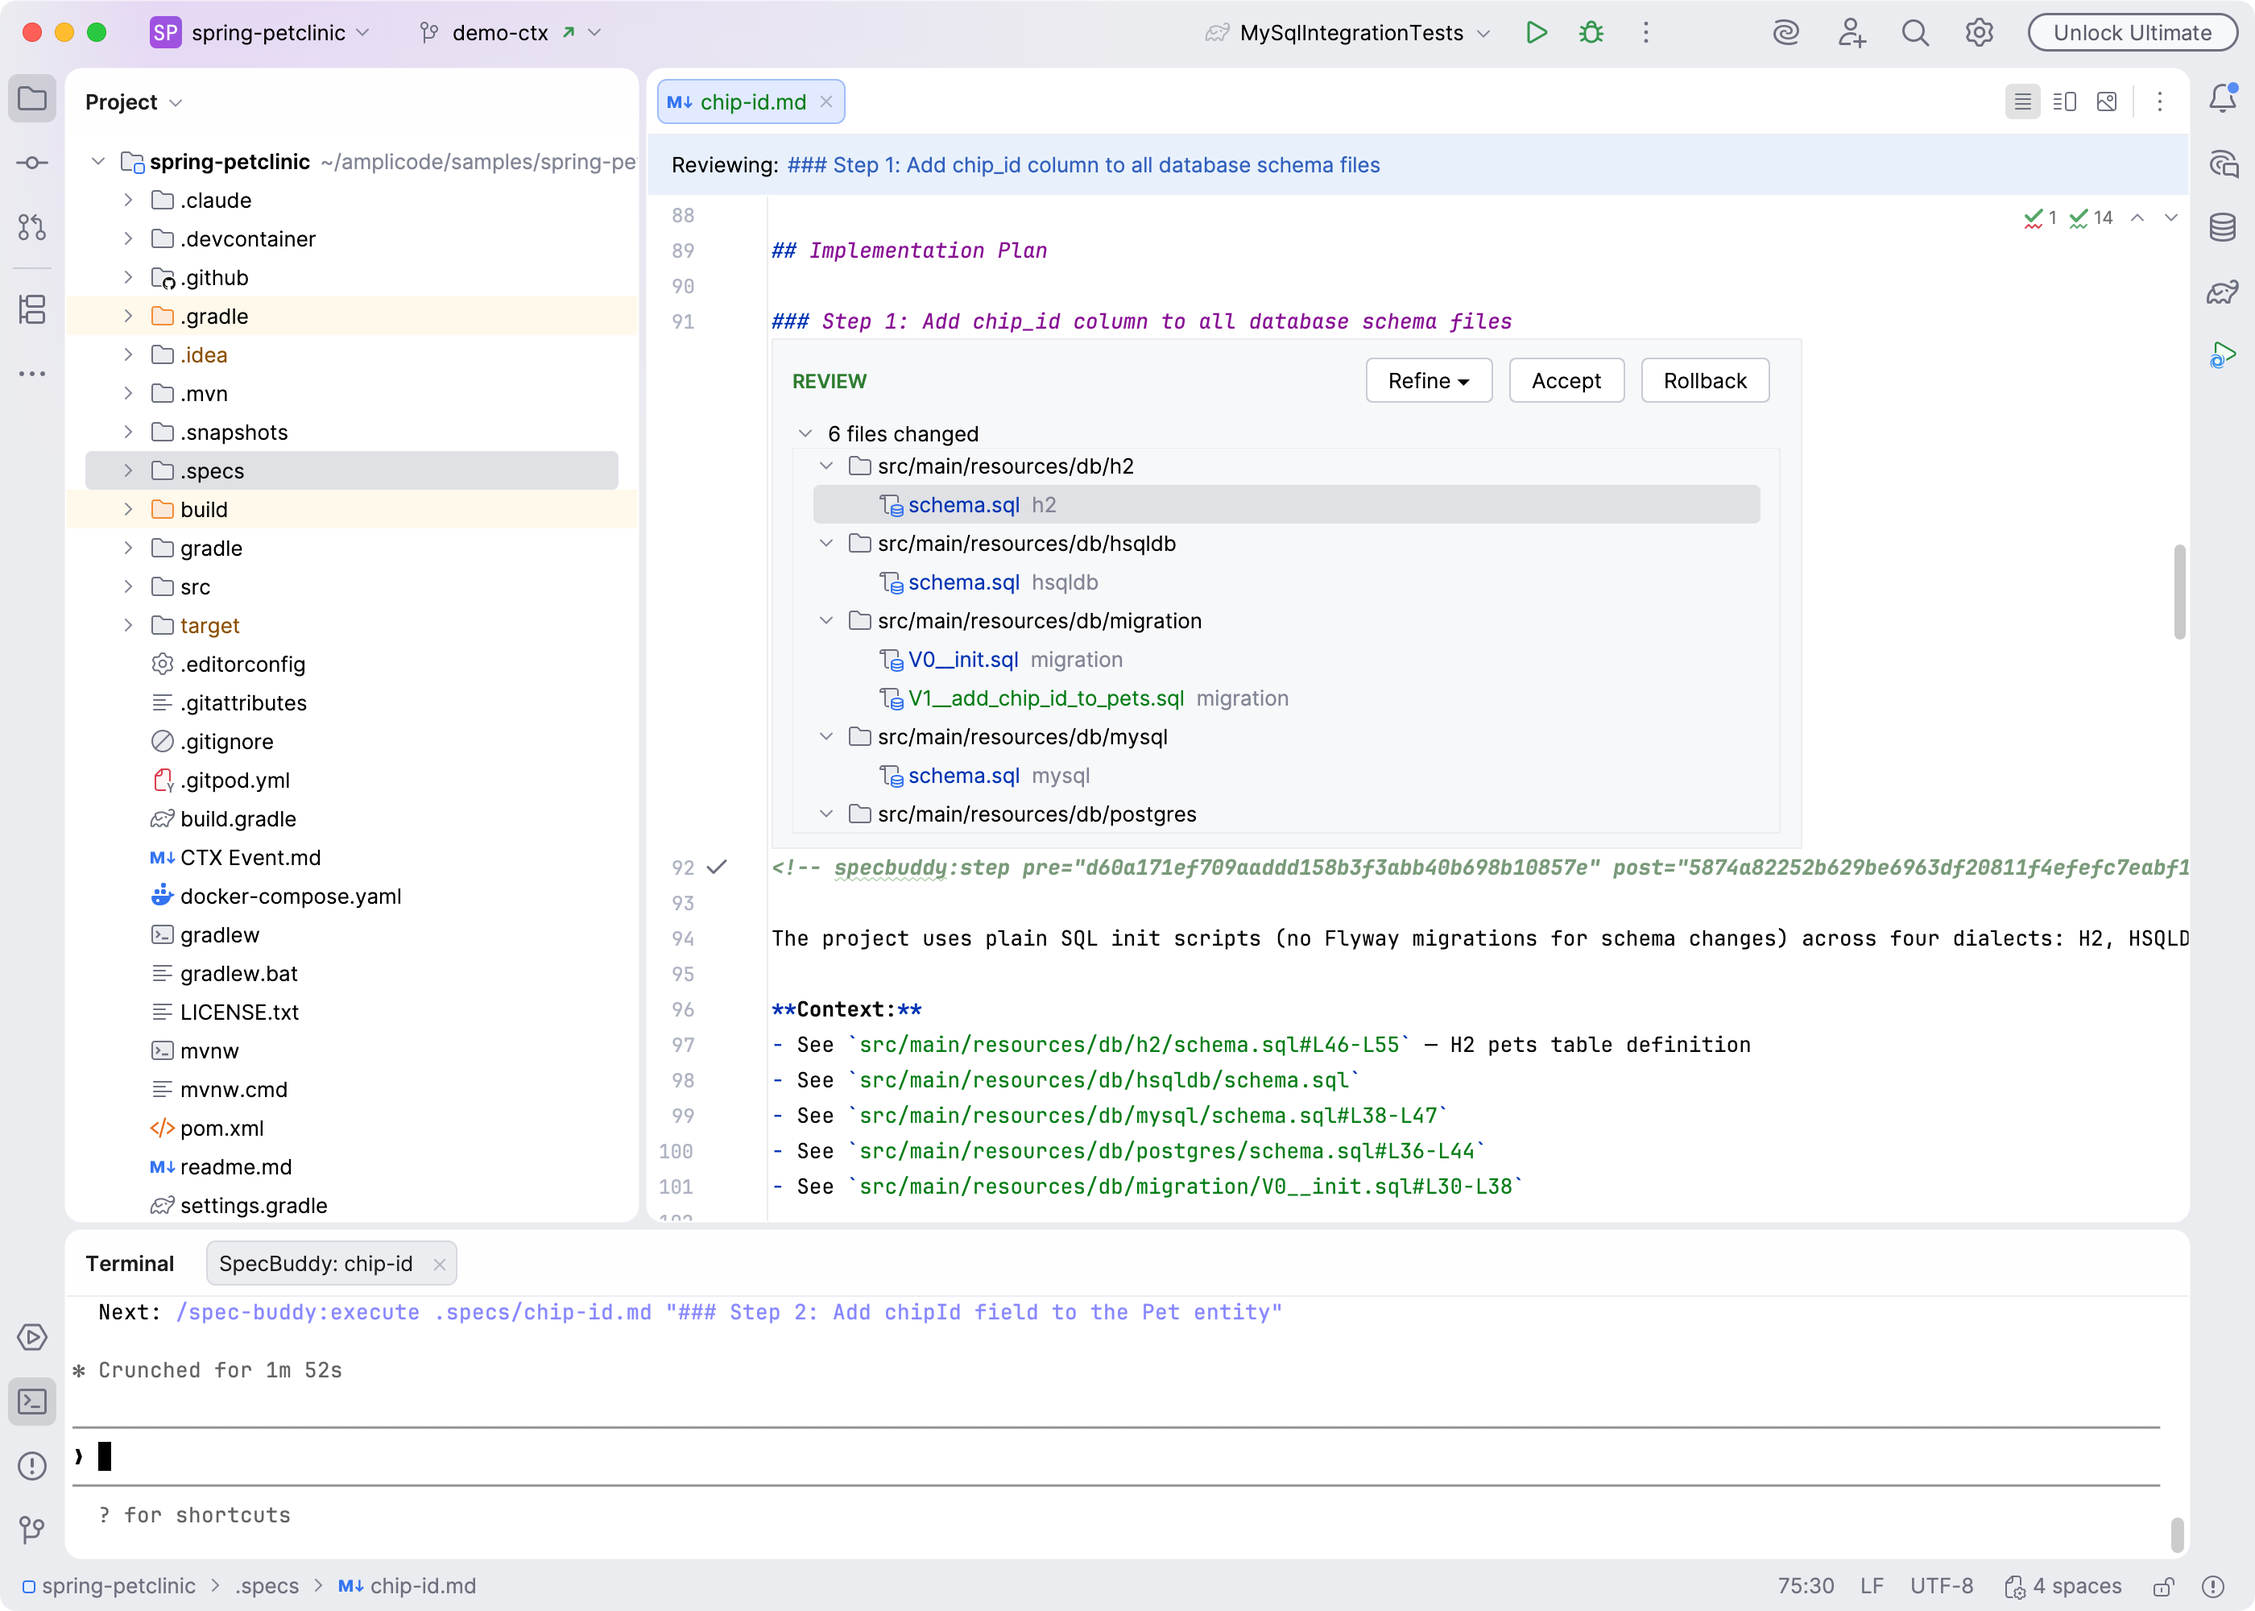
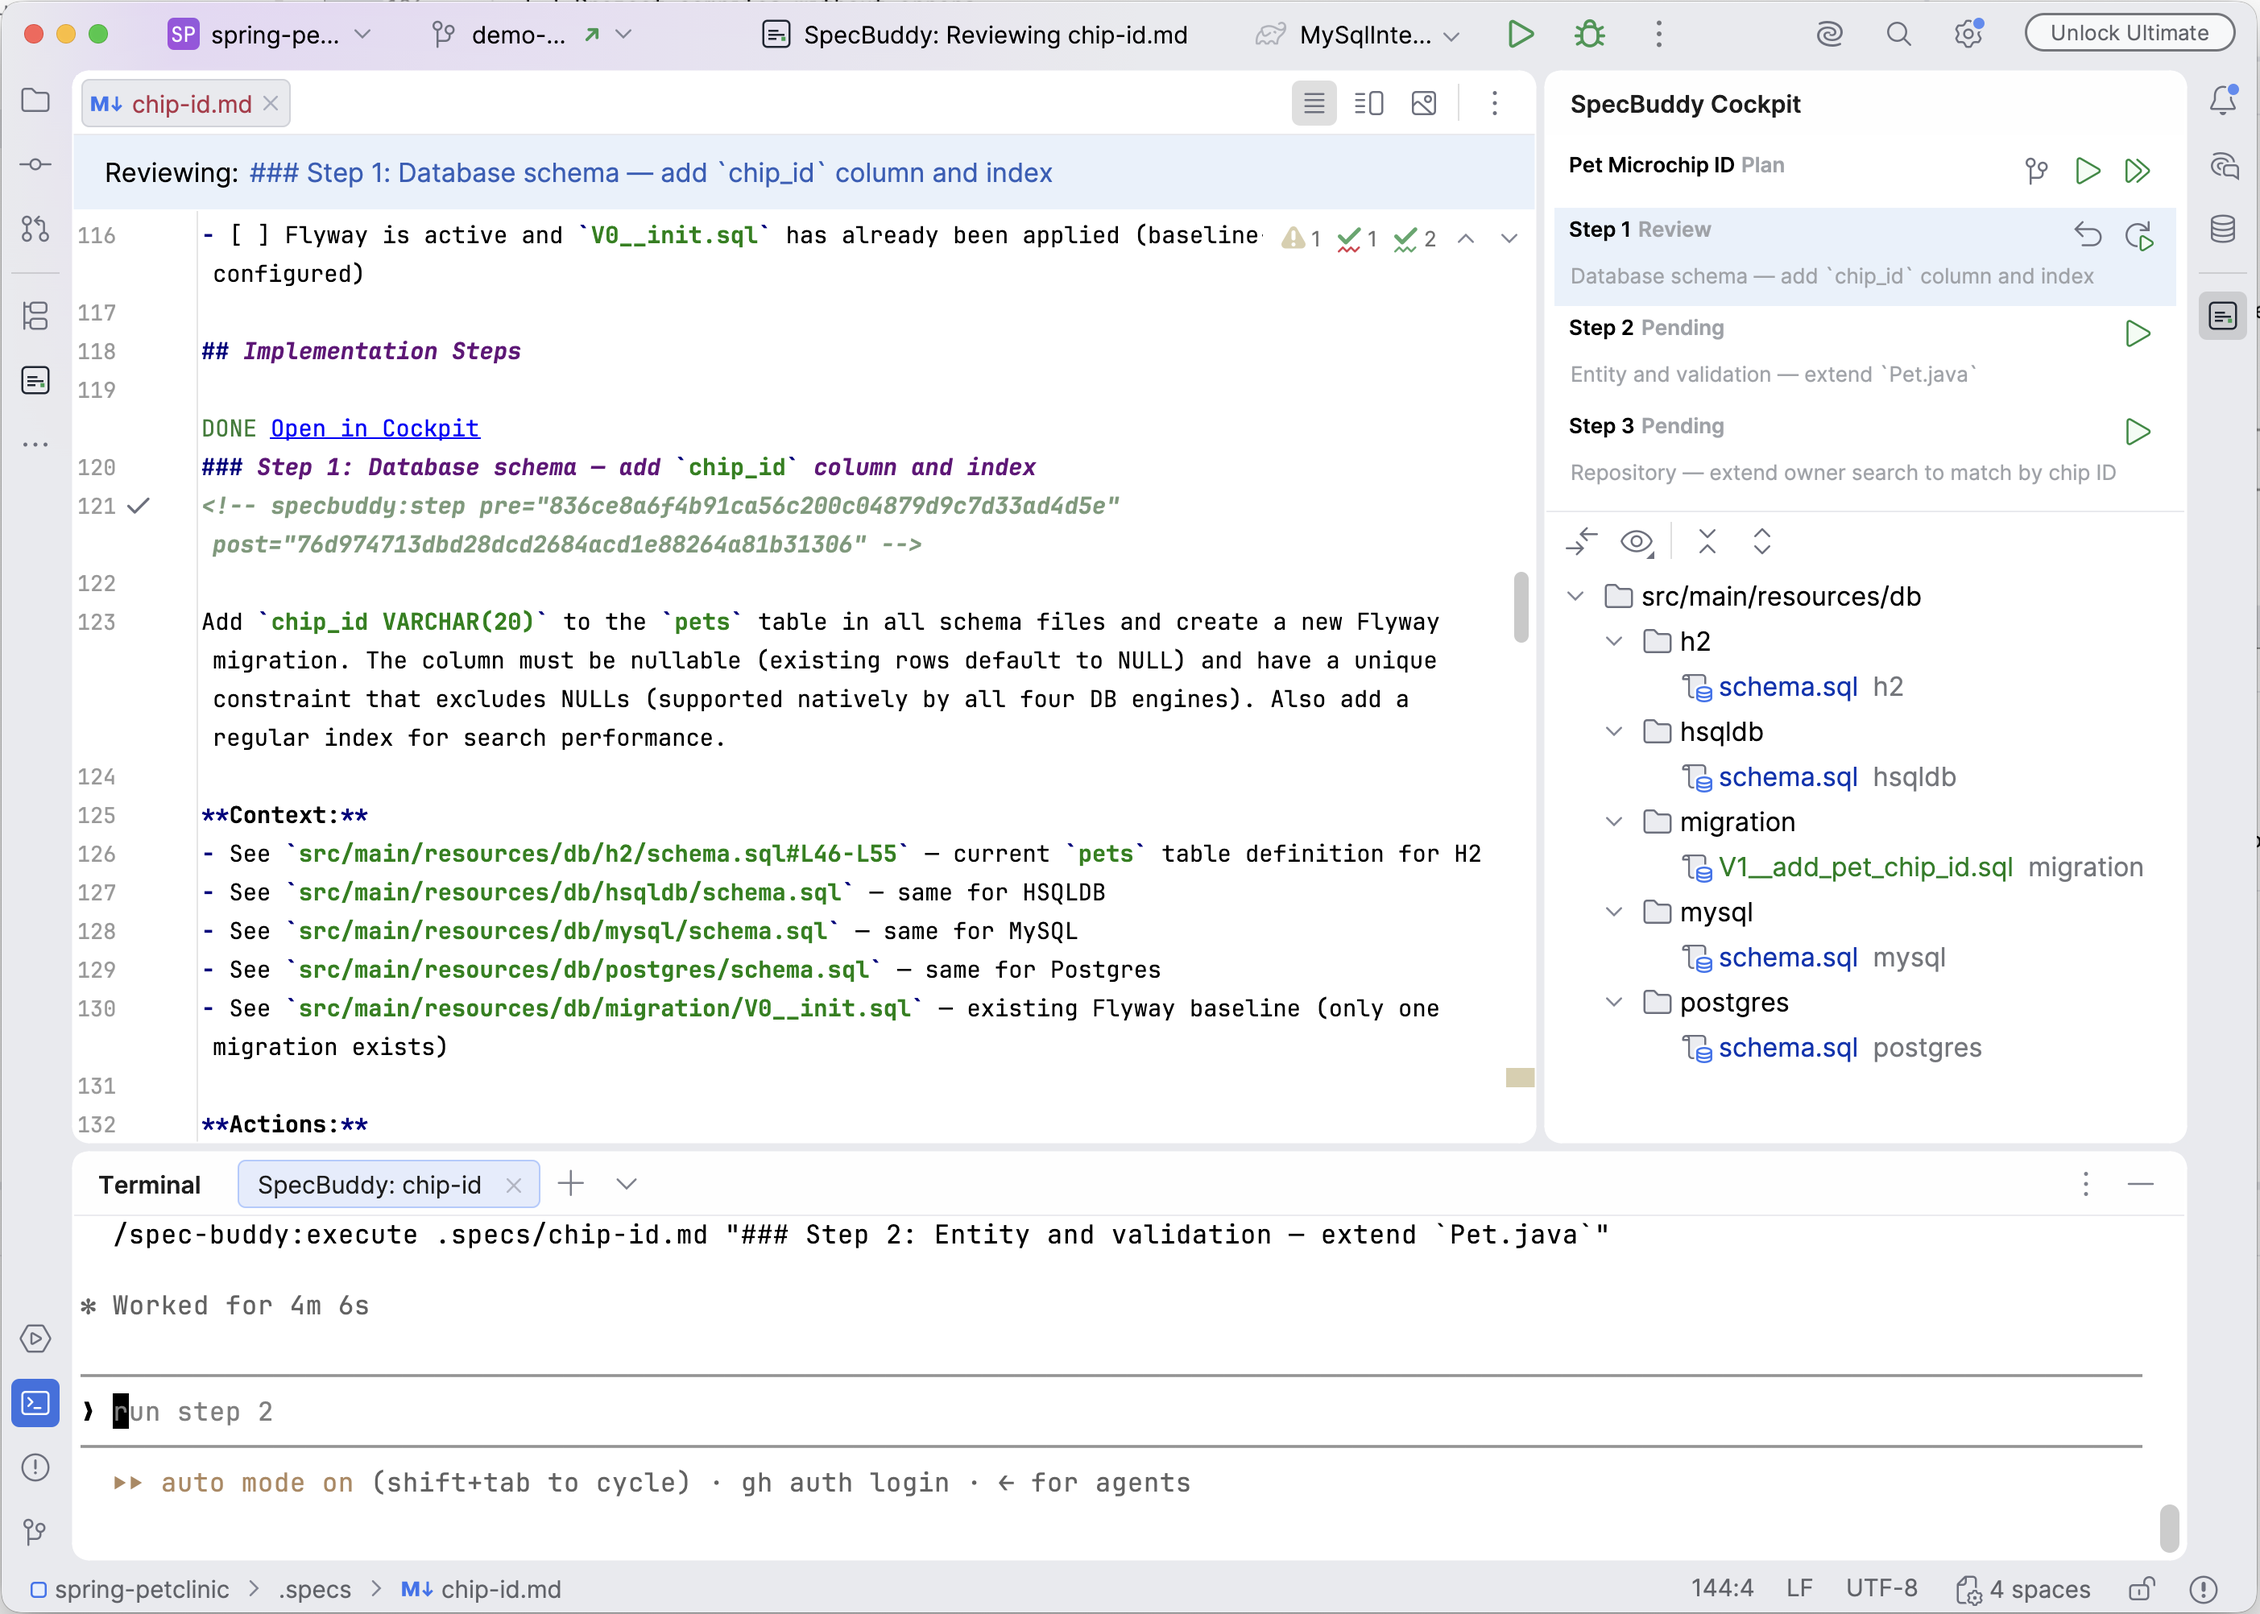
updates

diff --git a/USER_GUIDE.md b/USER_GUIDE.md
@@ -22,7 +22,9 @@ We want to add a microchip ID field to pets: stored in the database, visible in 
 ## Step 1 — Create a spec file
 
 Open your project in IntelliJ. Right-click in the **Project** panel where you want your spec to live (e.g. `.specs/`), choose **New → New Spec / Task**, and name it `add-chip-id`.
-![new-spec.png](assets/create-spec.png)
+
+<img alt="create-spec.png" src="assets/create-spec.png" width=1024>
+
 This creates `add-chip-id.md` with a minimal template. Fill in a short draft describing what you want:
 
 ```markdown
@@ -32,52 +34,49 @@ Should appear in the add/edit pet form. Should be searchable from the owners lis
 
 Save the file.
 
-![spec-draft.png](assets/spec-draft.png)
+<img alt="spec-draft.png" src="assets/spec-draft.png" width="1024"/>
 
 ---
 
 ## Step 2 — Expand the draft into a full specification
 
-Click on **Explode** link at the top of the editor or  the gutter icon next to `<!-- specbuddy:explode-specification  -->` header.
+Click on **Explode** button in the **SpecBuddy Cockpit** toolwindow or the gutter icon next to `<!-- specbuddy:explode-specification  -->` header.
 
 Claude Code opens in a terminal panel and reads your draft. It explores your project produces a complete specification covering functional requirements, data model changes, UI changes, and edge cases.
 
 When Claude finishes, you would see expanded specification text.
 
-![expanded_spec.png](assets/expanded-spec.png)
+<img alt="expanded_spec.png" src="assets/expanded-spec.png" width="1024"/>
 
-The panel shows the spec file. Open it to read what Claude wrote. If something is wrong or missing:
+If something is wrong or missing:
 
 - **Add an inline comment** — select the relevant text in the editor, click comment gutter icon appeared. Type your note and.
 - Click **Refine** in the header. Claude re-reads the spec and your comments and rewrites accordingly.
 
-![img.png](assets/inlay-comment.png)
+<img alt="img.png" src="assets/inlay-comment.png" width="1024"/>
+
+
+You can add comments anywhere in your project anytime.
 
 ---
 
 ## Step 3 — Generate an implementation plan
 
-The spec file now contains the full feature description. Click the **Generate Plan** in the header.
+The spec file now contains the full feature description. Click the **Generate Plan** in the cockpit.
 
-Claude reads the specification and produces a numbered plan directly inside the spec file — a list of concrete implementation steps such as:
+Claude reads the specification and produces a numbered plan directly inside the spec file — a list of concrete implementation steps.
 
-```
-### Step 1: Add chip_id column to all database schema files
-### Step 2: Add chipId field to the Pet entity
-### Step 3: Add chip ID input to the pet form template
-### Step 4: Validate chip ID uniqueness in PetController
-### Step 5: Add chip ID search to the owner find form and controller
-### Step 6: Add repository integration tests and update existing tests
-```
+When Claude finishes, the cockpit will display plan steps.
 
-When Claude finishes, the Review panel opens again showing the plan.
-
-![plan.png](assets/plan.png)
+<img alt="plan.png" src="assets/plan.png" width="1024"/>
 
 Read through the plan. If a step is missing or wrongly scoped:
 
 - Add inline comments on specific steps.
+- Press Cmd+N and select **SpecBuddy Step** – scaffold step would be inserted with inline comment ready.
 - Click **Refine** to have Claude revise the plan.
+
+<img alt="add-step.png" src="assets/add-step.png" width="1024"/>
 
 When the plan looks correct, you can finally execute it.
 
@@ -85,60 +84,34 @@ When the plan looks correct, you can finally execute it.
 
 ## Step 4 — Execute steps one by one
 
-Each plan step has a **Run** gutter icon (▶) next to its heading and an inlay with status and `Run Step` button. Click it to send that step to Claude.
+Each plan step has a **Run** gutter icon (▶) next to its heading and an inlay with status. Click it or icon in the **Cockpit** to send that step to Claude.
 
 Claude opens a new terminal session and implements the step — creating or modifying files in an isolated workspace so your main project is untouched while it works.
 
-A spinner appears in the Review panel with the step name while Claude is running.
+Step execution is tracked in the Cockpit panel.
 
-![running-step.png](assets/running-step.png)
+<img alt="running-step.png" src="assets/running-step.png" width="1024"/>
 
-When Claude finishes, the step inlay switches to **Review** mode and lists every file it changed.
-
-![step-review.png](assets/step-review.png)
-
----
-
-## Step 5 — Review the diff
-
-Click any file in the list to open a diff view: standard Idea's diff viewer would appear, displaying changes made to the file.
-![file-diff.png](assets/file-diff.png)
-You can **edit the file directly** to fix small mistakes without rejecting the whole step.
-
-You can also add inline comments on specific changed lines to explain what needs fixing.
-
----
-
-## Step 6 — Accept, Reject, or Refine
-
-At the top of the inlay panel you have three options:
-
-**Accept** — Claude's changes (including any edits you made) are applied to your project. The workspace is cleaned up. Move on to the next step.
-
-**Reject** — All changes from this step are discarded. Your project is exactly as it was before. Re-run the step when you're ready.
-
-**Refine** — Opens a split button with three choices:
+When Claude finishes, the status inlay would display **Done**. Cockpit toolwindow would display a diff applied to the project. Feel free to leave a review.
+If something is wrong you can **Refine** the results with your comments applied:
 - *Refine Generation* — keep the plan as-is, re-run just this step with your comments as guidance.
 - *Refine Plan and Generation* — revise the plan for this step, then re-run it.
 - *Reject and Refine Plan* — discard the changes and revise the plan before re-running.
 
+You can also rollback all the changes of the step.
+
+<img alt="step-review.png" src="assets/step-review.png" width="1024"/>
+
 ---
 
-## Step 7 — Repeat for each step
+## Step 5 — Repeat for each step
 
-Work through the remaining steps in order. Each one is independent — you review and accept or refine before moving to the next.
-
-After accepting the step, the inlay would display `DONE` status with ability to opening review session again or rolling back its changes.
-
-Editor header would display overall plan progress.
-
-![img.png](assets/step-complete.png)
+Work through the remaining steps in order. Each one is independent — you review and accept or refine before moving to the next. You can also launch whole plan execution – the steps would be implemented one by one. 
 
 ---
 
 ## Tips
 
 - You can add comments at any point — during plan review, during diff review, or both. Claude sees all of them on the next Refine run.
-- If a step produces no changes (Claude found nothing to do), accepting it is instant.
 - The spec file is plain Markdown and lives in your repository. You can edit it manually at any time between steps.
 - If Claude's terminal session is still running and you need to see it, click **Show Agent Log** in the Review panel.
